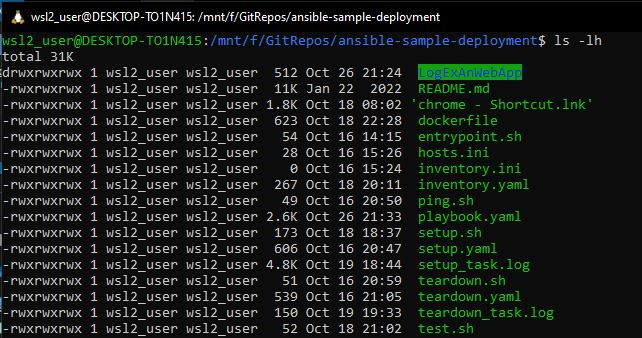
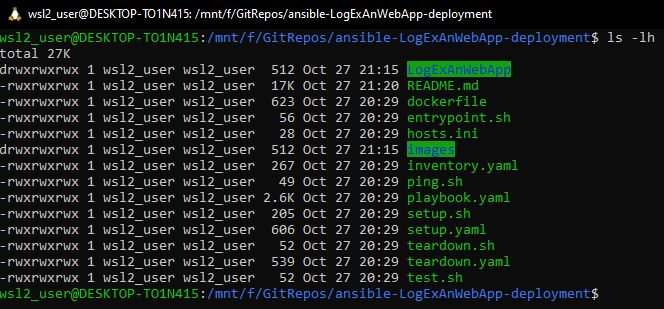
additional changes added

diff --git a/README.md b/README.md
@@ -1,4 +1,4 @@
-# ansible-sample-deployment
+# ansible-LogExAnWebApp-deployment
 
 - sample ansible deployment playbook file written with setup and teardown for demo purpose
 
@@ -8,49 +8,53 @@
 
 ![](https://github.com/Palani-SN/ansible-LogExAnWebApp-deployment/blob/main/images/root_folder.JPG?raw=true)
 
-- enter the **password** for the BECOME password, output of the **./test.sh** is shown below
+- enter the **password** for the BECOME password, output of the **./test.sh** is shown below, 
+when the screen shows up **go to http://localhost:5000/, Enter to unmount the docker after manual verification:**, 
+you can visit the url, once you want to close the container and clean up, press enter at the terminal
 
 ```terminal
 
-wsl2_user@DESKTOP-TO1N415:/mnt/f/GitRepos/ansible-sample-deployment$ ./test.sh
+wsl2_user@DESKTOP-TO1N415:/mnt/f/GitRepos/ansible-LogExAnWebApp-deployment$ ./test.sh
 BECOME password:
 
-PLAY [Provisioning docker container] ***********************************************************************************
-TASK [Gathering Facts] *************************************************************************************************
+PLAY [Provisioning docker container] ***********************************************************************************************************************************
+
+TASK [Gathering Facts] *************************************************************************************************************************************************
 ok: [127.0.0.1]
 
-TASK [setup - docker container with OpenSSH & Python Interpreter] ******************************************************
+TASK [setup - docker container with OpenSSH & Python Interpreter] ******************************************************************************************************
 changed: [127.0.0.1]
 
-TASK [Wait 300 seconds for port 22 to become open and contain "OpenSSH"] ***********************************************
+TASK [Wait 300 seconds for port 22 to become open and contain "OpenSSH"] ***********************************************************************************************
 ok: [127.0.0.1]
 
-PLAY [User definitions] ************************************************************************************************
-TASK [Gathering Facts] *************************************************************************************************
-[WARNING]: Platform linux on host vm01 is using the discovered Python interpreter at /usr/bin/python3.10, but future
-installation of another Python interpreter could change the meaning of that path. See https://docs.ansible.com/ansible-
-core/2.12/reference_appendices/interpreter_discovery.html for more information.
+PLAY [User definitions] ************************************************************************************************************************************************
+
+TASK [Gathering Facts] *************************************************************************************************************************************************
+[WARNING]: Platform linux on host vm01 is using the discovered Python interpreter at /usr/bin/python3.10, but future installation of another Python interpreter could
+change the meaning of that path. See https://docs.ansible.com/ansible-core/2.12/reference_appendices/interpreter_discovery.html for more information.
 ok: [vm01]
 
-TASK [create a new user] ***********************************************************************************************
+TASK [create a new user] ***********************************************************************************************************************************************
 changed: [vm01]
 
-PLAY [Connection & Version Check] **************************************************************************************
-TASK [Gathering Facts] *************************************************************************************************
+PLAY [Connection & Version Check] **************************************************************************************************************************************
+
+TASK [Gathering Facts] *************************************************************************************************************************************************
 ok: [vm01]
 
-TASK [Ping my hosts] ***************************************************************************************************
+TASK [Ping my hosts] ***************************************************************************************************************************************************
 ok: [vm01]
 
-TASK [Print message] ***************************************************************************************************
+TASK [Print message] ***************************************************************************************************************************************************
 ok: [vm01] => {
     "msg": "Hello world"
 }
 
-TASK [Print version] ***************************************************************************************************
+TASK [Print version] ***************************************************************************************************************************************************
 changed: [vm01]
 
-TASK [ansible.builtin.debug] *******************************************************************************************
+TASK [ansible.builtin.debug] *******************************************************************************************************************************************
 ok: [vm01] => {
     "msg": [
         "NAME=\"Alpine Linux\"",
@@ -62,70 +66,72 @@ ok: [vm01] => {
     ]
 }
 
-PLAY [project setup] ***************************************************************************************************
-TASK [Gathering Facts] *************************************************************************************************
+PLAY [project setup] ***************************************************************************************************************************************************
+
+TASK [Gathering Facts] *************************************************************************************************************************************************
 ok: [vm01]
 
-TASK [copy files] ******************************************************************************************************
+TASK [copy files] ******************************************************************************************************************************************************
 changed: [vm01]
 
-PLAY [project environment setup] ***************************************************************************************
-TASK [Gathering Facts] *************************************************************************************************
+PLAY [project environment setup] ***************************************************************************************************************************************
+
+TASK [Gathering Facts] *************************************************************************************************************************************************
 ok: [vm01]
 
-TASK [installation of libraries from PYPI] *****************************************************************************
+TASK [installation of libraries from PYPI] *****************************************************************************************************************************
 changed: [vm01]
 
-TASK [ansible.builtin.debug] *******************************************************************************************
+TASK [ansible.builtin.debug] *******************************************************************************************************************************************
 ok: [vm01] => {
     "msg": [
         "mode of 'install.sh' changed to 0755 (rwxr-xr-x)",
         "Collecting fastapi",
         "  Downloading fastapi-0.85.1-py3-none-any.whl (55 kB)",
-        "     ━━━━━━━━━━━━━━━━━━━━━━━━━━━━━━━━━━━━━━━ 55.4/55.4 kB 229.2 kB/s eta 0:00:00",
+        "     ━━━━━━━━━━━━━━━━━━━━━━━━━━━━━━━━━━━━━━━ 55.4/55.4 kB 222.6 kB/s eta 0:00:00",
         "Collecting pydantic!=1.7,!=1.7.1,!=1.7.2,!=1.7.3,!=1.8,!=1.8.1,<2.0.0,>=1.6.2",
         "  Downloading pydantic-1.10.2-cp310-cp310-musllinux_1_1_x86_64.whl (12.9 MB)",
-        "     ━━━━━━━━━━━━━━━━━━━━━━━━━━━━━━━━━━━━━━━━ 12.9/12.9 MB 4.8 MB/s eta 0:00:00",
+        "     ━━━━━━━━━━━━━━━━━━━━━━━━━━━━━━━━━━━━━━━━ 12.9/12.9 MB 1.9 MB/s eta 0:00:00",
         "Collecting starlette==0.20.4",
         "  Downloading starlette-0.20.4-py3-none-any.whl (63 kB)",
-        "     ━━━━━━━━━━━━━━━━━━━━━━━━━━━━━━━━━━━━━━━ 63.6/63.6 kB 762.1 kB/s eta 0:00:00",
+        "     ━━━━━━━━━━━━━━━━━━━━━━━━━━━━━━━━━━━━━━━ 63.6/63.6 kB 437.7 kB/s eta 0:00:00",
         "Collecting anyio<5,>=3.4.0",
         "  Downloading anyio-3.6.2-py3-none-any.whl (80 kB)",
-        "     ━━━━━━━━━━━━━━━━━━━━━━━━━━━━━━━━━━━━━━━ 80.6/80.6 kB 934.2 kB/s eta 0:00:00",
+        "     ━━━━━━━━━━━━━━━━━━━━━━━━━━━━━━━━━━━━━━━ 80.6/80.6 kB 683.8 kB/s eta 0:00:00",
         "Collecting typing-extensions>=4.1.0",
         "  Downloading typing_extensions-4.4.0-py3-none-any.whl (26 kB)",
         "Collecting idna>=2.8",
         "  Downloading idna-3.4-py3-none-any.whl (61 kB)",
-        "     ━━━━━━━━━━━━━━━━━━━━━━━━━━━━━━━━━━━━━━━ 61.5/61.5 kB 938.4 kB/s eta 0:00:00",
+        "     ━━━━━━━━━━━━━━━━━━━━━━━━━━━━━━━━━━━━━━━ 61.5/61.5 kB 465.6 kB/s eta 0:00:00",
         "Collecting sniffio>=1.1",
         "  Downloading sniffio-1.3.0-py3-none-any.whl (10 kB)",
         "Installing collected packages: typing-extensions, sniffio, idna, pydantic, anyio, starlette, fastapi",
         "Successfully installed anyio-3.6.2 fastapi-0.85.1 idna-3.4 pydantic-1.10.2 sniffio-1.3.0 starlette-0.20.4 typing-extensions-4.4.0",
         "Collecting Flask",
         "  Downloading Flask-2.2.2-py3-none-any.whl (101 kB)",
-        "     ━━━━━━━━━━━━━━━━━━━━━━━━━━━━━━━━━━━━━ 101.5/101.5 kB 790.3 kB/s eta 0:00:00",
-        "Collecting Werkzeug>=2.2.2",
-        "  Downloading Werkzeug-2.2.2-py3-none-any.whl (232 kB)",
-        "     ━━━━━━━━━━━━━━━━━━━━━━━━━━━━━━━━━━━━━━━ 232.7/232.7 kB 1.8 MB/s eta 0:00:00",
-        "Collecting itsdangerous>=2.0",
-        "  Downloading itsdangerous-2.1.2-py3-none-any.whl (15 kB)",
+        "     ━━━━━━━━━━━━━━━━━━━━━━━━━━━━━━━━━━━━━ 101.5/101.5 kB 724.3 kB/s eta 0:00:00",
         "Collecting Jinja2>=3.0",
         "  Downloading Jinja2-3.1.2-py3-none-any.whl (133 kB)",
-        "     ━━━━━━━━━━━━━━━━━━━━━━━━━━━━━━━━━━━━━━━ 133.1/133.1 kB 1.4 MB/s eta 0:00:00",
+        "     ━━━━━━━━━━━━━━━━━━━━━━━━━━━━━━━━━━━━━━━ 133.1/133.1 kB 1.7 MB/s eta 0:00:00",
+        "Collecting itsdangerous>=2.0",
+        "  Downloading itsdangerous-2.1.2-py3-none-any.whl (15 kB)",
+        "Collecting Werkzeug>=2.2.2",
+        "  Downloading Werkzeug-2.2.2-py3-none-any.whl (232 kB)",
+        "     ━━━━━━━━━━━━━━━━━━━━━━━━━━━━━━━━━━━━━━━ 232.7/232.7 kB 1.7 MB/s eta 0:00:00",
         "Collecting click>=8.0",
         "  Downloading click-8.1.3-py3-none-any.whl (96 kB)",
-        "     ━━━━━━━━━━━━━━━━━━━━━━━━━━━━━━━━━━━━━━━━ 96.6/96.6 kB 1.3 MB/s eta 0:00:00",
+        "     ━━━━━━━━━━━━━━━━━━━━━━━━━━━━━━━━━━━━━━━━ 96.6/96.6 kB 1.1 MB/s eta 0:00:00",
         "Collecting MarkupSafe>=2.0",
         "  Downloading MarkupSafe-2.1.1-cp310-cp310-musllinux_1_1_x86_64.whl (29 kB)",
         "Installing collected packages: MarkupSafe, itsdangerous, click, Werkzeug, Jinja2, Flask",
         "Successfully installed Flask-2.2.2 Jinja2-3.1.2 MarkupSafe-2.1.1 Werkzeug-2.2.2 click-8.1.3 itsdangerous-2.1.2",
         "Collecting uvicorn",
         "  Downloading uvicorn-0.19.0-py3-none-any.whl (56 kB)",
-        "     ━━━━━━━━━━━━━━━━━━━━━━━━━━━━━━━━━━━━━━━ 56.6/56.6 kB 501.5 kB/s eta 0:00:00",
-        "Requirement already satisfied: click>=7.0 in /usr/lib/python3.10/site-packages (from uvicorn) (8.1.3)",
+        "     ━━━━━━━━━━━━━━━━━━━━━━━━━━━━━━━━━━━━━━━ 56.6/56.6 kB 552.6 kB/s eta 0:00:00",
         "Collecting h11>=0.8",
         "  Downloading h11-0.14.0-py3-none-any.whl (58 kB)",
-        "     ━━━━━━━━━━━━━━━━━━━━━━━━━━━━━━━━━━━━━━━ 58.3/58.3 kB 612.8 kB/s eta 0:00:00",
+        "     ━━━━━━━━━━━━━━━━━━━━━━━━━━━━━━━━━━━━━━━ 58.3/58.3 kB 666.2 kB/s eta 0:00:00",
+        "Requirement already satisfied: click>=7.0 in /usr/lib/python3.10/site-packages (from uvicorn) (8.1.3)",
         "Installing collected packages: h11, uvicorn",
         "Successfully installed h11-0.14.0 uvicorn-0.19.0",
         "(1/8) Installing py3-six (1.16.0-r1)",
@@ -139,7 +145,7 @@ ok: [vm01] => {
         "OK: 179 MiB in 44 packages",
         "Collecting lark-parser",
         "  Downloading lark_parser-0.12.0-py2.py3-none-any.whl (103 kB)",
-        "     ━━━━━━━━━━━━━━━━━━━━━━━━━━━━━━━━━━━━━ 103.5/103.5 kB 555.0 kB/s eta 0:00:00",
+        "     ━━━━━━━━━━━━━━━━━━━━━━━━━━━━━━━━━━━━━━━ 103.5/103.5 kB 1.1 MB/s eta 0:00:00",
         "Installing collected packages: lark-parser",
         "Successfully installed lark-parser-0.12.0",
         "Collecting LogExAn",
@@ -195,17 +201,17 @@ ok: [vm01] => {
         "OK: 296 MiB in 88 packages",
         "Collecting gunicorn",
         "  Downloading gunicorn-20.1.0-py3-none-any.whl (79 kB)",
-        "     ━━━━━━━━━━━━━━━━━━━━━━━━━━━━━━━━━━━━━━━━ 79.5/79.5 kB 71.2 kB/s eta 0:00:00",
+        "     ━━━━━━━━━━━━━━━━━━━━━━━━━━━━━━━━━━━━━━━ 79.5/79.5 kB 693.5 kB/s eta 0:00:00",
         "Requirement already satisfied: setuptools>=3.0 in /usr/lib/python3.10/site-packages (from gunicorn) (65.5.0)",
         "Installing collected packages: gunicorn",
         "Successfully installed gunicorn-20.1.0"
     ]
 }
 
-TASK [run API] *********************************************************************************************************
+TASK [run API] *********************************************************************************************************************************************************
 changed: [vm01]
 
-TASK [ansible.builtin.debug] *******************************************************************************************
+TASK [ansible.builtin.debug] *******************************************************************************************************************************************
 ok: [vm01] => {
     "msg": [
         "mode of 'run_fastapi.sh' changed to 0755 (rwxr-xr-x)",
@@ -213,10 +219,10 @@ ok: [vm01] => {
     ]
 }
 
-TASK [run UI] **********************************************************************************************************
+TASK [run UI] **********************************************************************************************************************************************************
 changed: [vm01]
 
-TASK [ansible.builtin.debug] *******************************************************************************************
+TASK [ansible.builtin.debug] *******************************************************************************************************************************************
 ok: [vm01] => {
     "msg": [
         "mode of 'run_flask.sh' changed to 0755 (rwxr-xr-x)",
@@ -224,61 +230,62 @@ ok: [vm01] => {
     ]
 }
 
-TASK [run Status] ******************************************************************************************************
+TASK [run Status] ******************************************************************************************************************************************************
 changed: [vm01]
 
-TASK [ansible.builtin.debug] *******************************************************************************************
+TASK [ansible.builtin.debug] *******************************************************************************************************************************************
 ok: [vm01] => {
     "msg": [
         "Active Internet connections (servers and established)",
         "Proto Recv-Q Send-Q Local Address           Foreign Address         State       PID/Program name    ",
+        "tcp        0      0 127.0.0.1:8000          0.0.0.0:*               LISTEN      1164/python",
+        "tcp        0      0 0.0.0.0:5000            0.0.0.0:*               LISTEN      1200/python",
         "tcp        0      0 0.0.0.0:22              0.0.0.0:*               LISTEN      1/sshd -D -e [liste",
-        "tcp        0      0 127.0.0.1:8000          0.0.0.0:*               LISTEN      2809/python",
-        "tcp        0      0 0.0.0.0:5000            0.0.0.0:*               LISTEN      2845/python",
-        "tcp        0      0 172.17.0.2:22           172.17.0.1:39578        ESTABLISHED 10/sshd: openssh [p",
+        "tcp        0      0 172.17.0.2:22           172.17.0.1:33980        ESTABLISHED 11/sshd: openssh [p",
         "tcp        0      0 :::22                   :::*                    LISTEN      1/sshd -D -e [liste",
         "Active UNIX domain sockets (servers and established)",
         "Proto RefCnt Flags       Type       State         I-Node PID/Program name    Path",
-        "unix  3      [ ]         STREAM     CONNECTED      42696 -                   ",
-        "unix  2      [ ]         STREAM     CONNECTED      45531 10/sshd: openssh [p ",
-        "unix  3      [ ]         STREAM     CONNECTED     135130 2816/python         ",
-        "unix  3      [ ]         STREAM     CONNECTED     135129 2816/python         ",
-        "unix  3      [ ]         STREAM     CONNECTED      42697 10/sshd: openssh [p ",
-        "unix  2      [ ]         DGRAM                    133959 2877/python3.10     ",
-        "unix  3      [ ]         STREAM     CONNECTED     133065 2814/python         ",
-        "unix  3      [ ]         STREAM     CONNECTED     133050 2812/python         ",
-        "unix  3      [ ]         STREAM     CONNECTED     133051 2812/python         ",
-        "unix  3      [ ]         STREAM     CONNECTED     133070 2813/python         ",
-        "unix  3      [ ]         STREAM     CONNECTED     133066 2814/python         ",
-        "unix  3      [ ]         STREAM     CONNECTED     133069 2813/python         "
+        "unix  2      [ ]         DGRAM                     72867 1219/python3.10     ",
+        "unix  3      [ ]         STREAM     CONNECTED      72854 1167/python         ",
+        "unix  3      [ ]         STREAM     CONNECTED      72865 1178/python         ",
+        "unix  3      [ ]         STREAM     CONNECTED      72617 1169/python         ",
+        "unix  3      [ ]         STREAM     CONNECTED      72853 1167/python         ",
+        "unix  3      [ ]         STREAM     CONNECTED      38179 11/sshd: openssh [p ",
+        "unix  3      [ ]         STREAM     CONNECTED      72618 1169/python         ",
+        "unix  2      [ ]         STREAM     CONNECTED      40037 11/sshd: openssh [p ",
+        "unix  3      [ ]         STREAM     CONNECTED      72866 1178/python         ",
+        "unix  3      [ ]         STREAM     CONNECTED      38178 -                   ",
+        "unix  3      [ ]         STREAM     CONNECTED      70623 1179/python         ",
+        "unix  3      [ ]         STREAM     CONNECTED      70622 1179/python         "
     ]
 }
 
-PLAY [project open with url] *******************************************************************************************
-TASK [Gathering Facts] *************************************************************************************************
+PLAY [project open with url] *******************************************************************************************************************************************
+
+TASK [Gathering Facts] *************************************************************************************************************************************************
 ok: [127.0.0.1]
 
-TASK [Prompt for docker unmount] ***************************************************************************************
+TASK [Prompt for docker unmount] ***************************************************************************************************************************************
 [Prompt for docker unmount]
 go to http://localhost:5000/, Enter to unmount the docker after manual verification:
-^M
+^Mok: [127.0.0.1]
+
+PLAY [Removing docker container] ***************************************************************************************************************************************
+
+TASK [Gathering Facts] *************************************************************************************************************************************************
 ok: [127.0.0.1]
 
-PLAY [Removing docker container] ***************************************************************************************
-TASK [Gathering Facts] *************************************************************************************************
-ok: [127.0.0.1]
-
-TASK [teardown - docker container with OpenSSH & Python Interpreter] ***************************************************
+TASK [teardown - docker container with OpenSSH & Python Interpreter] ***************************************************************************************************
 changed: [127.0.0.1]
 
-TASK [Waits for port 22 of any IP to close active connections, don't start checking for 10 seconds] ********************
+TASK [Waits for port 22 of any IP to close active connections, don't start checking for 10 seconds] ********************************************************************
 ok: [127.0.0.1]
 
-PLAY RECAP *************************************************************************************************************
+PLAY RECAP *************************************************************************************************************************************************************
 127.0.0.1                  : ok=8    changed=2    unreachable=0    failed=0    skipped=0    rescued=0    ignored=0
 vm01                       : ok=18   changed=7    unreachable=0    failed=0    skipped=0    rescued=0    ignored=0
 
-wsl2_user@DESKTOP-TO1N415:/mnt/f/GitRepos/ansible-sample-deployment$
+wsl2_user@DESKTOP-TO1N415:/mnt/f/GitRepos/ansible-LogExAnWebApp-deployment$
 
 ```
 
